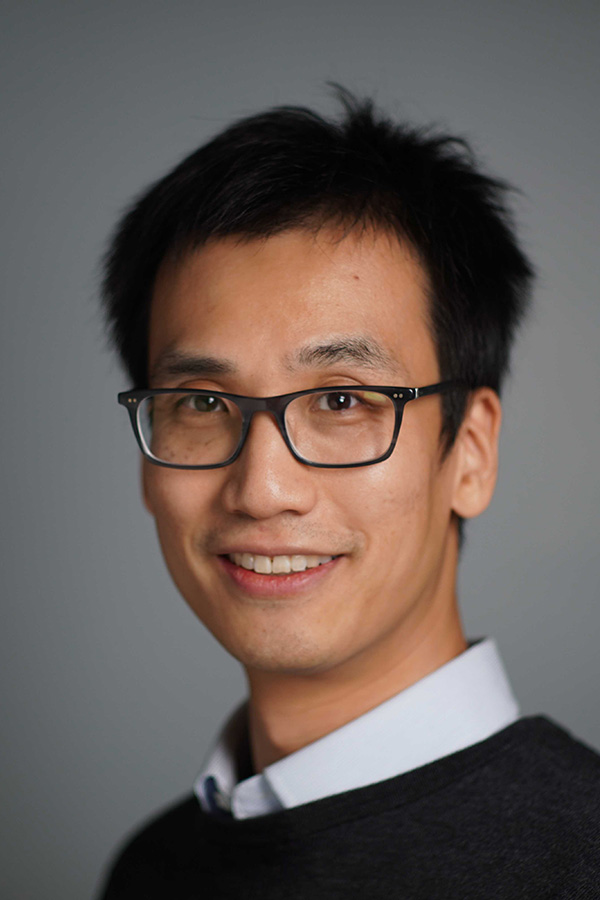
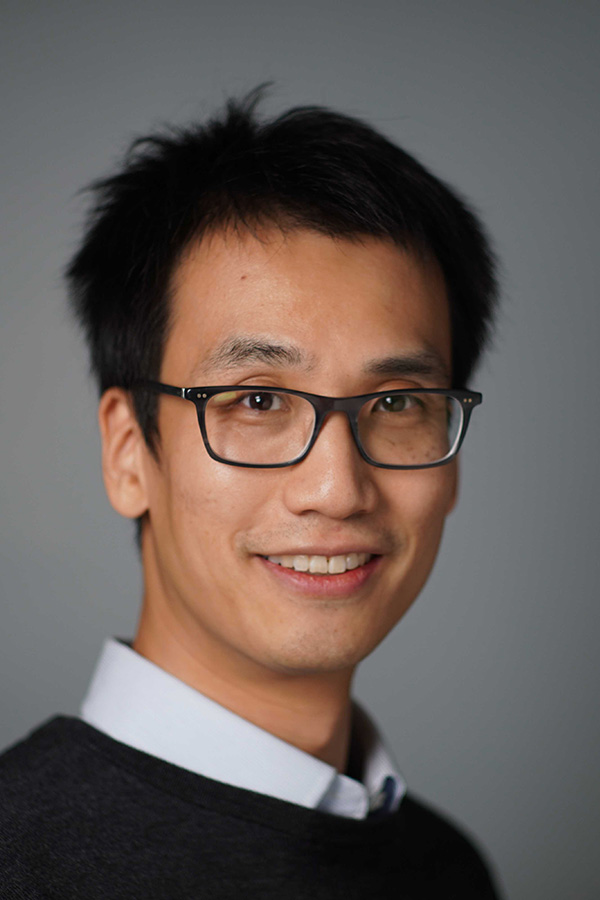
Flip lu (#60)
* Add flipped picture of Lu

* Change Lu Li's headshot image to flipped version

Updated image for Lu Li's headshot in the index.

* Fix headshot image filename for Lu Li

Updated image filename for Lu Li's headshot.

* Delete img/people/headshot_LuLi.jpg

* Delete img/people/headshot_LuLi_flip.jpg

* Add Lu Li's picture to the lab website

diff --git a/index.md b/index.md
@@ -10,7 +10,7 @@ hero_darken: true
 # hero_link_text: Example Call To Action
 video: tGJvrKFQcpM
 pis:
-    - image: img/people/headshot_LuLi_flip.jpg
+    - image: img/people/headshot_LuLi.jpg
       link: https://www.ri.cmu.edu/ri-people/lu-li/
       name: Lu Li
     - image: img/people/headshot_choset.jpg
